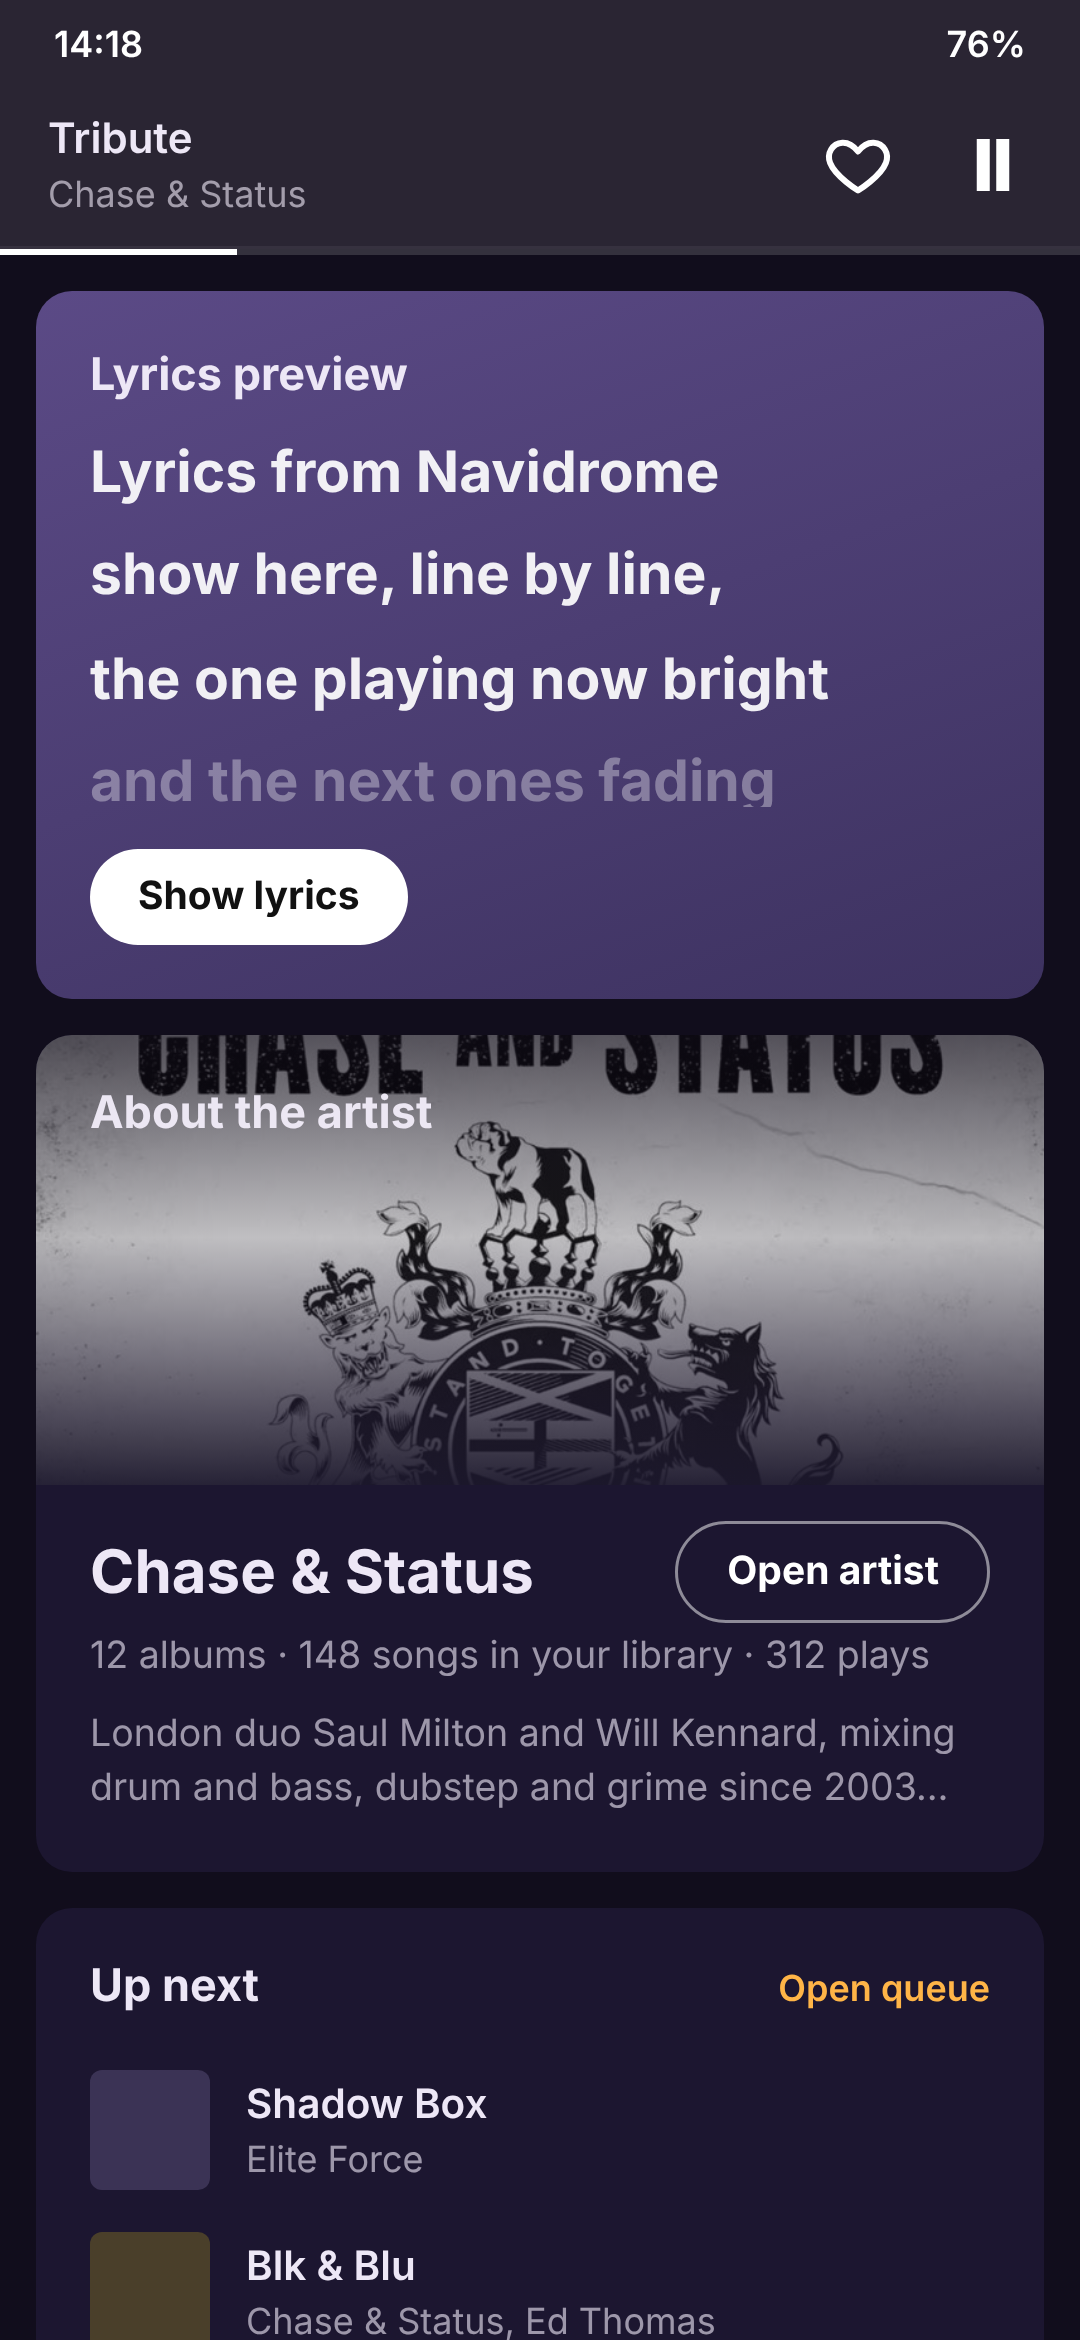
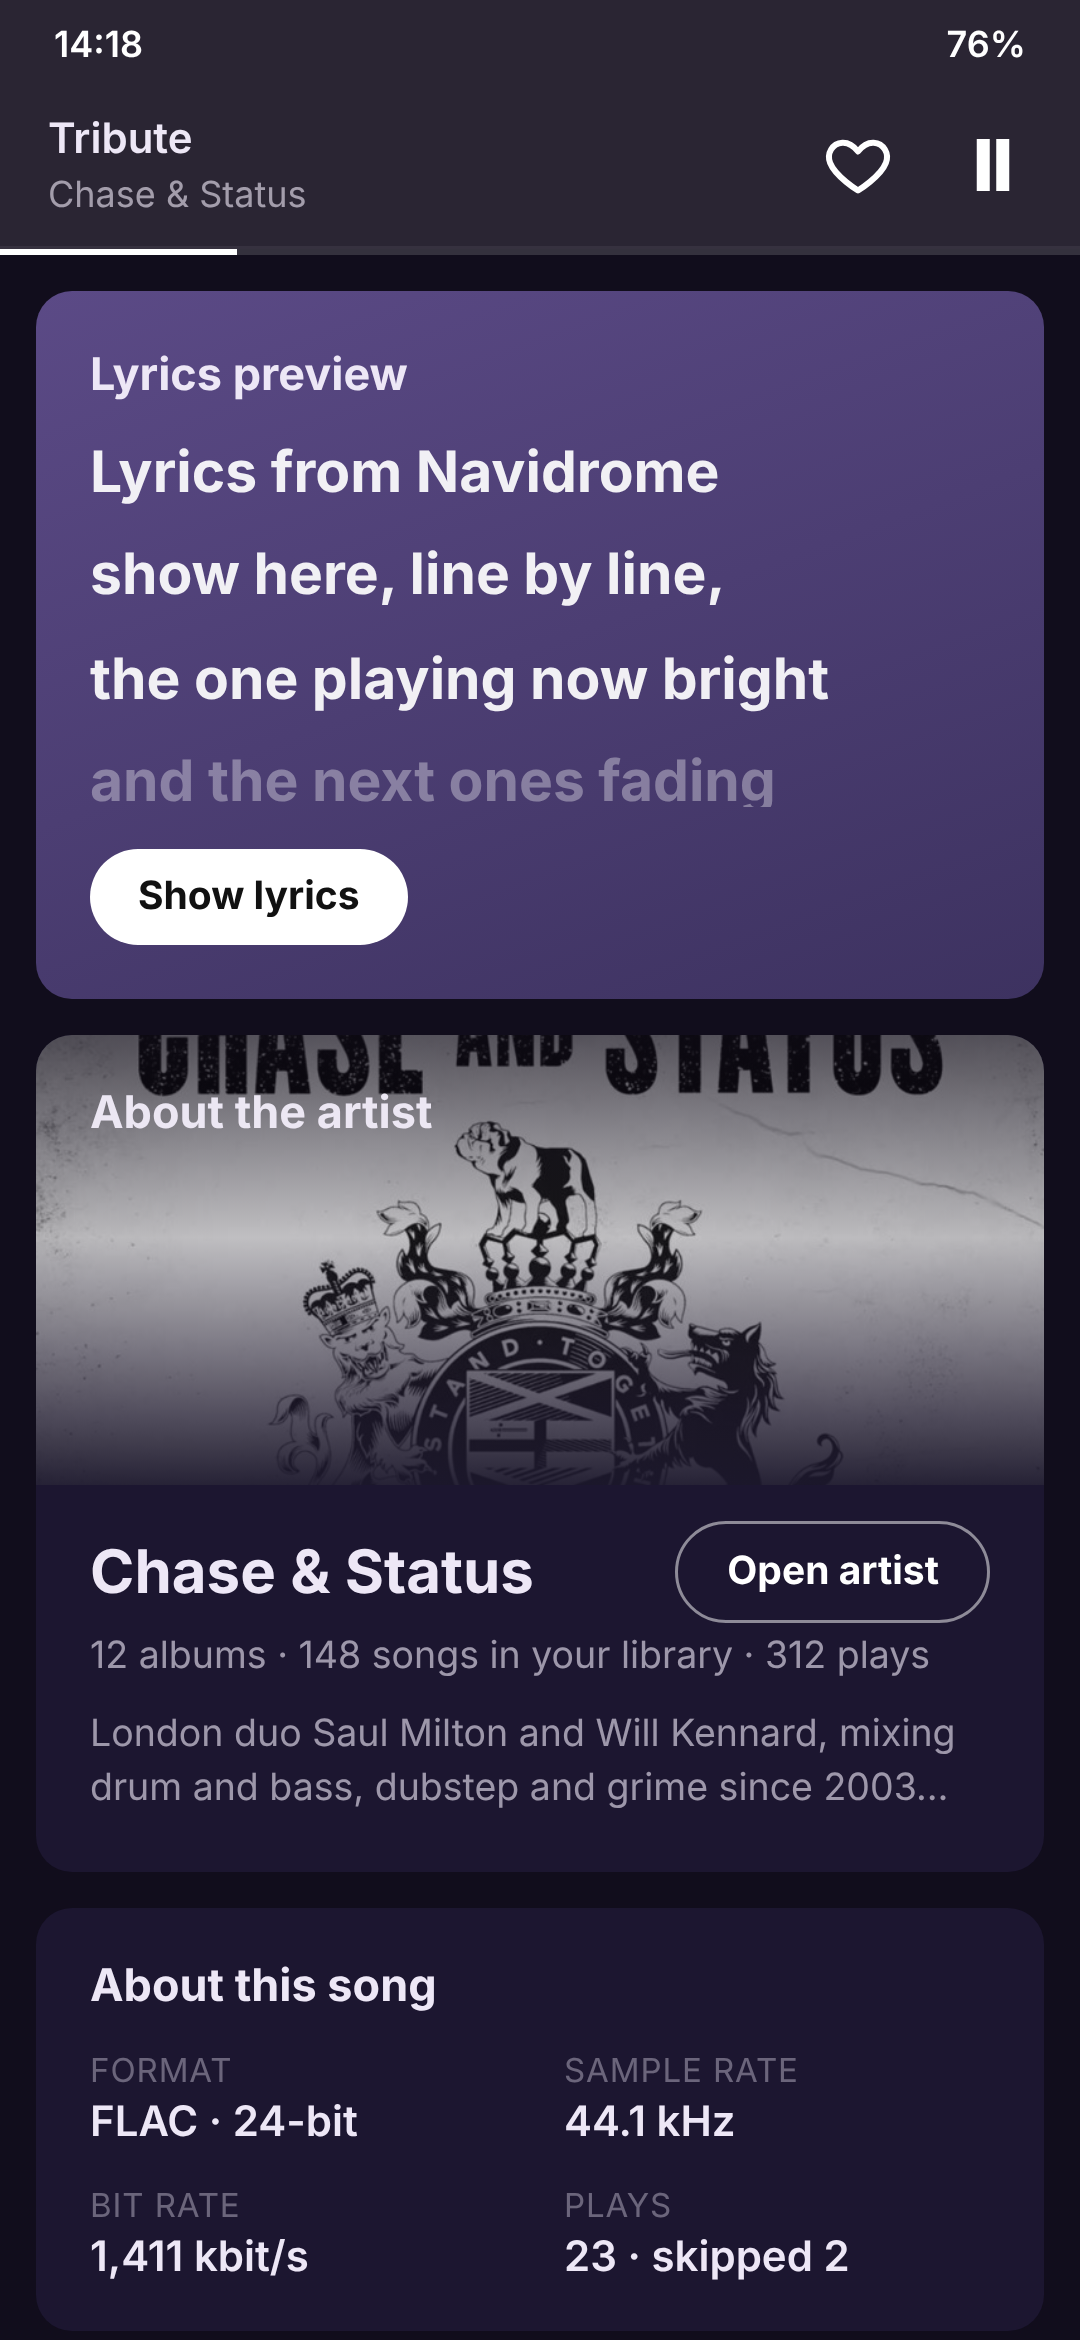
Mockups #121: device button low like Spotify; no share or queue button
Claude-Session: https://claude.ai/code/session_01WvXerK6S1jxqakWMttPPP6

diff --git a/mockups/issue-121/mockup.html b/mockups/issue-121/mockup.html
@@ -14,27 +14,27 @@
   .fill{fill:#fff;stroke:none}
 
   /* --- now playing --- */
-  .np{background:linear-gradient(180deg,#5a5560 0%,#3a3542 38%,#1d1828 70%,var(--plum) 100%)}
+  .np{display:flex;flex-direction:column;background:linear-gradient(180deg,#5a5560 0%,#3a3542 38%,#1d1828 70%,var(--plum) 100%)}
   .top{display:flex;align-items:center;justify-content:space-between;padding:8px 12px 0}
   .top .mid{text-align:center}
   .top .from{font-size:10.5px;letter-spacing:.9px;color:var(--muted);font-weight:500}
   .top .name{font-size:13px;font-weight:700;margin-top:1px}
   .iconbtn{width:40px;height:40px;display:flex;align-items:center;justify-content:center}
-  .cover{margin:30px 24px 0;width:312px;height:312px;border-radius:8px;overflow:hidden;box-shadow:0 18px 40px rgba(0,0,0,.45)}
+  .cover{margin:44px 24px 0;width:312px;height:312px;border-radius:8px;overflow:hidden;box-shadow:0 18px 40px rgba(0,0,0,.45)}
   .cover img{width:100%;height:100%;display:block}
-  .title-row{display:flex;align-items:center;margin:34px 24px 0}
+  .title-row{display:flex;align-items:center;margin:44px 24px 0}
   .title-row .t{flex:1;min-width:0}
   .song{font-size:22px;font-weight:700;letter-spacing:-.2px}
   .artist{font-size:15px;color:var(--muted);margin-top:3px}
-  .seek{margin:20px 24px 0}
+  .seek{margin:22px 24px 0}
   .bar{height:4px;border-radius:2px;background:rgba(255,255,255,.22);position:relative}
   .bar .done{position:absolute;left:0;top:0;bottom:0;width:22%;border-radius:2px;background:#fff}
   .bar .thumb{position:absolute;left:22%;top:50%;width:12px;height:12px;margin:-6px 0 0 -6px;border-radius:50%;background:#fff}
   .times{display:flex;justify-content:space-between;align-items:center;margin-top:7px;font-size:11px;color:var(--muted);font-variant-numeric:tabular-nums}
   .fmt{font-size:9.5px;letter-spacing:1px;color:var(--faint);font-weight:600}
-  .controls{display:flex;align-items:center;justify-content:space-between;margin:10px 18px 0}
+  .controls{display:flex;align-items:center;justify-content:space-between;margin:16px 18px 0}
   .play{width:64px;height:64px;border-radius:50%;background:var(--amber);display:flex;align-items:center;justify-content:center}
-  .bottom{display:flex;align-items:center;justify-content:space-between;margin:14px 20px 0}
+  .bottom{display:flex;align-items:center;justify-content:space-between;margin:auto 20px 62px}
   .bottom .right{display:flex;gap:22px}
   .device{display:flex;align-items:center;gap:8px;font-size:12px;font-weight:600;color:var(--amber)}
   .peek{position:absolute;left:12px;right:12px;bottom:-40px;height:86px;border-radius:12px;background:#4a3f6b;padding:14px 16px}
@@ -121,10 +121,6 @@
   </div>
   <div class="bottom">
     <div class="device"><svg viewBox="0 0 24 24" width="20" height="20" fill="none" stroke="#FFB547" stroke-width="2" stroke-linecap="round"><path d="M3 18a3 3 0 013 3M3 14a7 7 0 017 7M3 10a11 11 0 0111 11"/><path d="M5 6V5a2 2 0 012-2h12a2 2 0 012 2v12a2 2 0 01-2 2h-3"/></svg>Sony WH-1000XM5</div>
-    <div class="right">
-      <svg class="ic" viewBox="0 0 24 24" style="width:22px;height:22px;stroke:rgba(255,255,255,.85)"><circle cx="18" cy="5" r="2.5"/><circle cx="6" cy="12" r="2.5"/><circle cx="18" cy="19" r="2.5"/><path d="M8.2 10.8l7.6-4.4M8.2 13.2l7.6 4.4"/></svg>
-      <svg class="ic" viewBox="0 0 24 24" style="width:22px;height:22px;stroke:rgba(255,255,255,.85)"><path d="M3 6h13M3 12h13M3 18h8M19 10v8M15 14l4 4 4-4" transform="translate(-1 0)"/></svg>
-    </div>
   </div>
   <div class="peek"><h4>Lyrics preview</h4></div>
 </div>
@@ -157,11 +153,6 @@
     </div>
   </div>
 
-  <div class="card queue">
-    <div class="h"><h3>Up next</h3><span>Open queue</span></div>
-    <div class="row"><div class="th"></div><div><div class="s">Shadow Box</div><div class="a">Elite Force</div></div></div>
-    <div class="row"><div class="th" style="background:#4a3f2a"></div><div><div class="s">Blk &amp; Blu</div><div class="a">Chase &amp; Status, Ed Thomas</div></div></div>
-  </div>
 
   <div class="card details">
     <h3>About this song</h3>
@@ -190,7 +181,6 @@
     <div class="item"><svg class="ic" viewBox="0 0 24 24"><path d="M12 20.5s-7.5-4.6-9.3-9.2C1.5 8.2 3.4 4.8 6.8 4.6c2.1-.1 3.7 1 5.2 2.9 1.5-1.9 3.1-3 5.2-2.9 3.4.2 5.3 3.6 4.1 6.7-1.8 4.6-9.3 9.2-9.3 9.2z"/></svg><span class="grow">Add to Liked songs</span></div>
     <div class="item"><svg class="ic" viewBox="0 0 24 24"><circle cx="12" cy="12" r="9"/><path d="M12 8v8M8 12h8"/></svg><span class="grow">Add to playlist</span></div>
     <div class="item"><svg class="ic" viewBox="0 0 24 24"><path d="M4 7h11M4 12h11M4 17h7M19 14v6M16 17h6"/></svg><span class="grow">Add to queue</span></div>
-    <div class="item"><svg class="ic" viewBox="0 0 24 24"><path d="M4 6h16M4 12h16M4 18h16"/></svg><span class="grow">Go to queue</span></div>
     <div class="sep"></div>
     <div class="item"><svg class="ic" viewBox="0 0 24 24"><circle cx="12" cy="12" r="9"/><circle cx="12" cy="12" r="3"/></svg><span class="grow">Go to album</span></div>
     <div class="item"><svg class="ic" viewBox="0 0 24 24"><circle cx="10" cy="8" r="4"/><path d="M3 20c0-3.5 3-6 7-6M17 13v6M17 19a2 2 0 11-2-2h2"/></svg><span class="grow">Go to artists</span></div>
@@ -200,7 +190,6 @@
     <div class="item"><svg class="ic" viewBox="0 0 24 24"><rect x="3" y="5" width="18" height="14" rx="2"/><path d="M7 15h4M14 15h3"/></svg><span class="grow">Lyrics</span><span class="tag on">ON</span></div>
     <div class="item"><svg class="ic" viewBox="0 0 24 24"><circle cx="12" cy="12" r="9"/><path d="M12 11v6M12 7.5v.5"/></svg><span class="grow">Song details</span></div>
     <div class="item"><svg class="ic" viewBox="0 0 24 24"><circle cx="12" cy="13" r="8"/><path d="M12 9v4l2.5 2M9 2h6"/></svg><span class="grow">Sleep timer</span><span class="tag">COMING SOON</span></div>
-    <div class="item"><svg class="ic" viewBox="0 0 24 24"><circle cx="18" cy="5" r="2.5"/><circle cx="6" cy="12" r="2.5"/><circle cx="18" cy="19" r="2.5"/><path d="M8.2 10.8l7.6-4.4M8.2 13.2l7.6 4.4"/></svg><span class="grow">Share</span></div>
   </div>
 </div>
 
